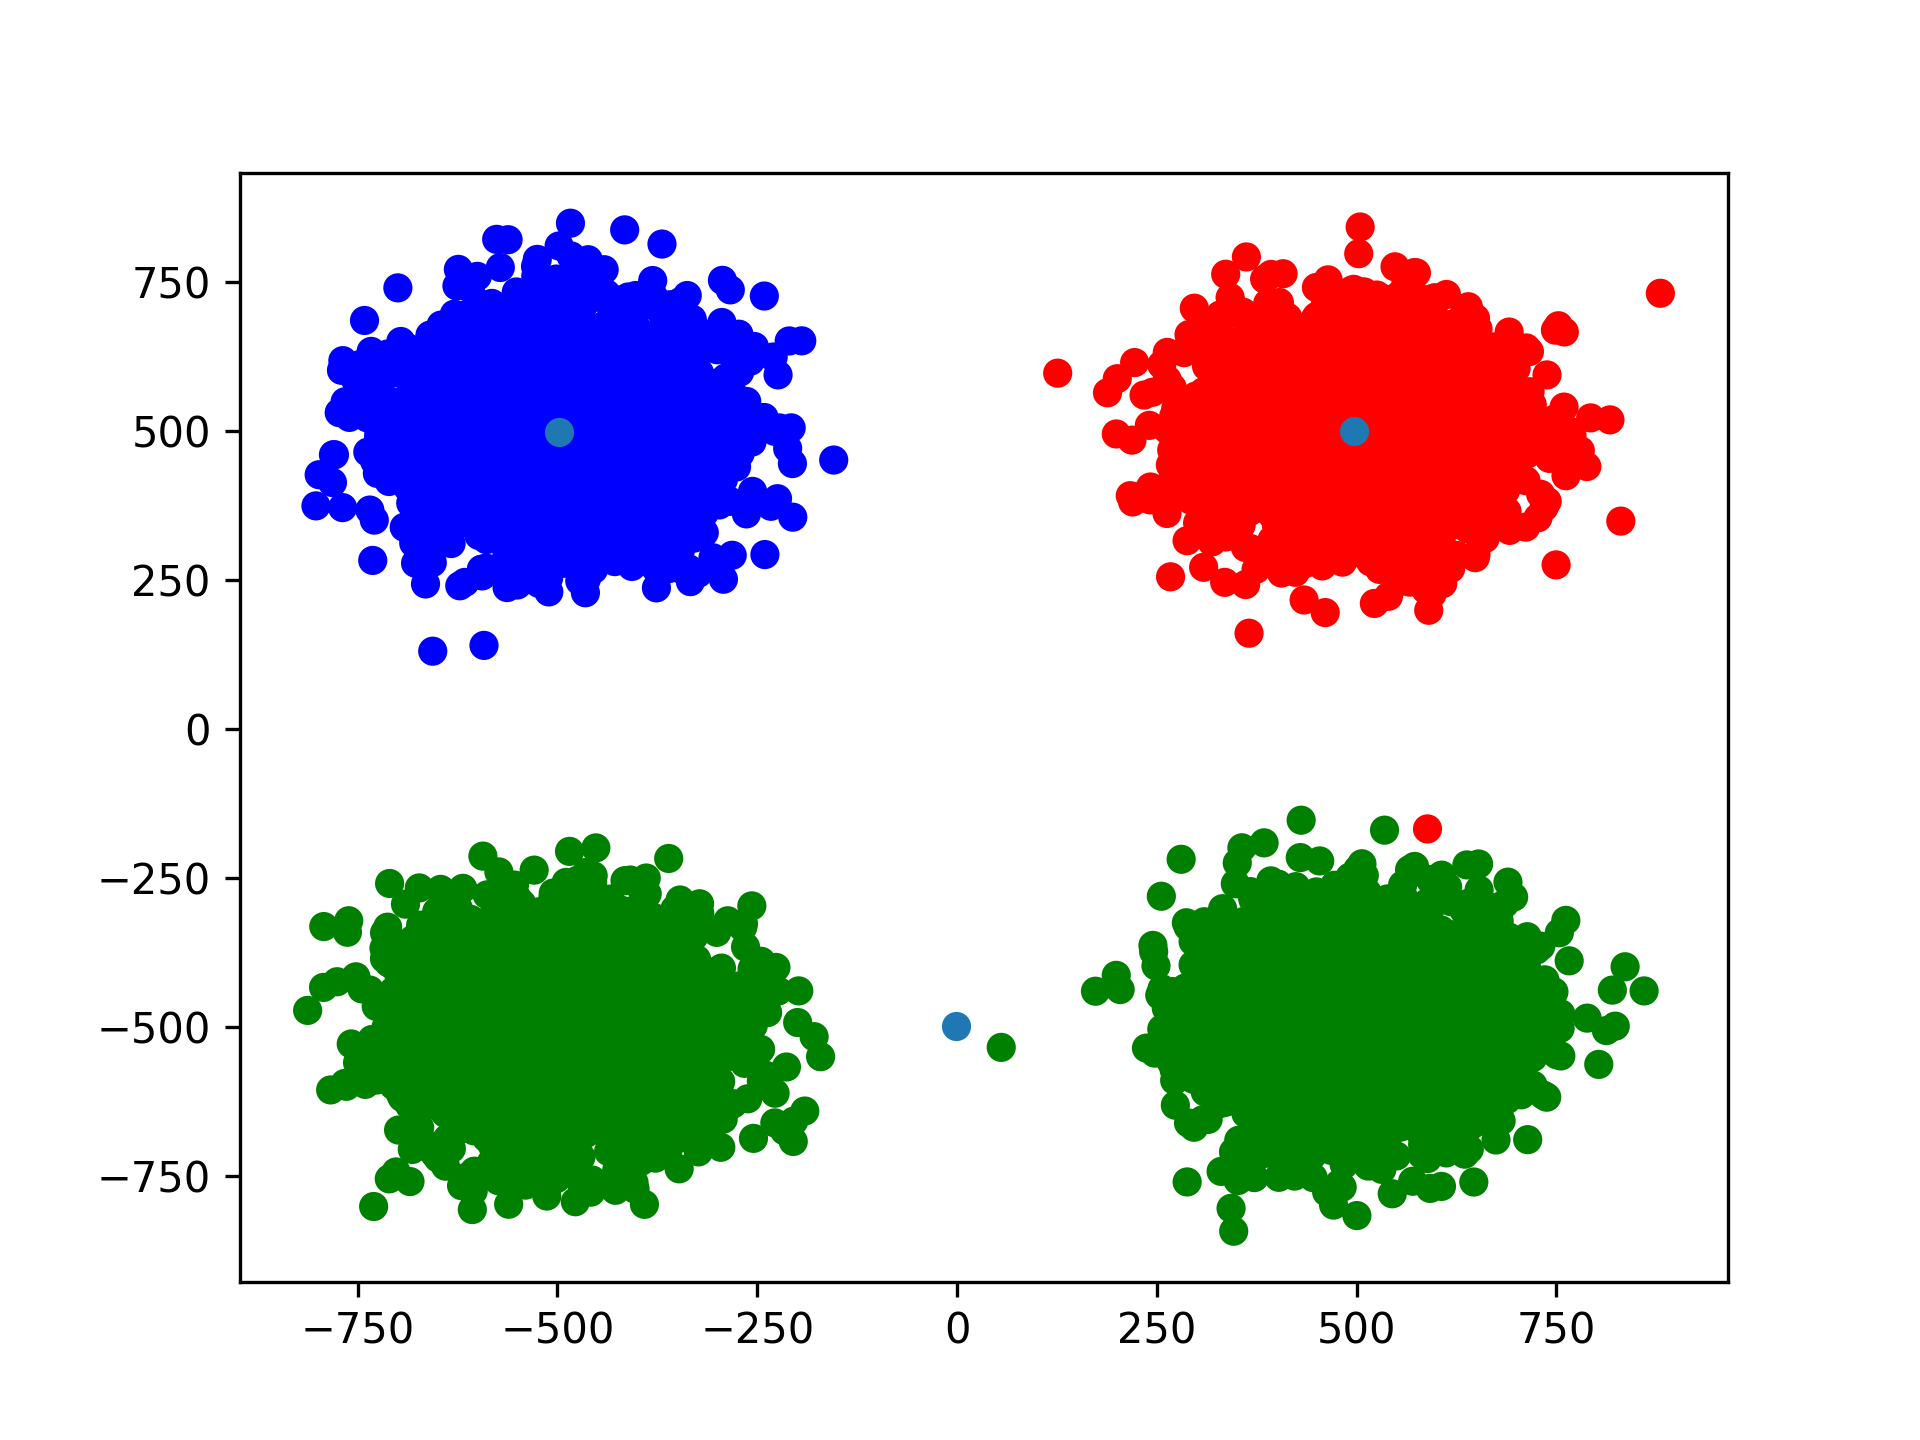
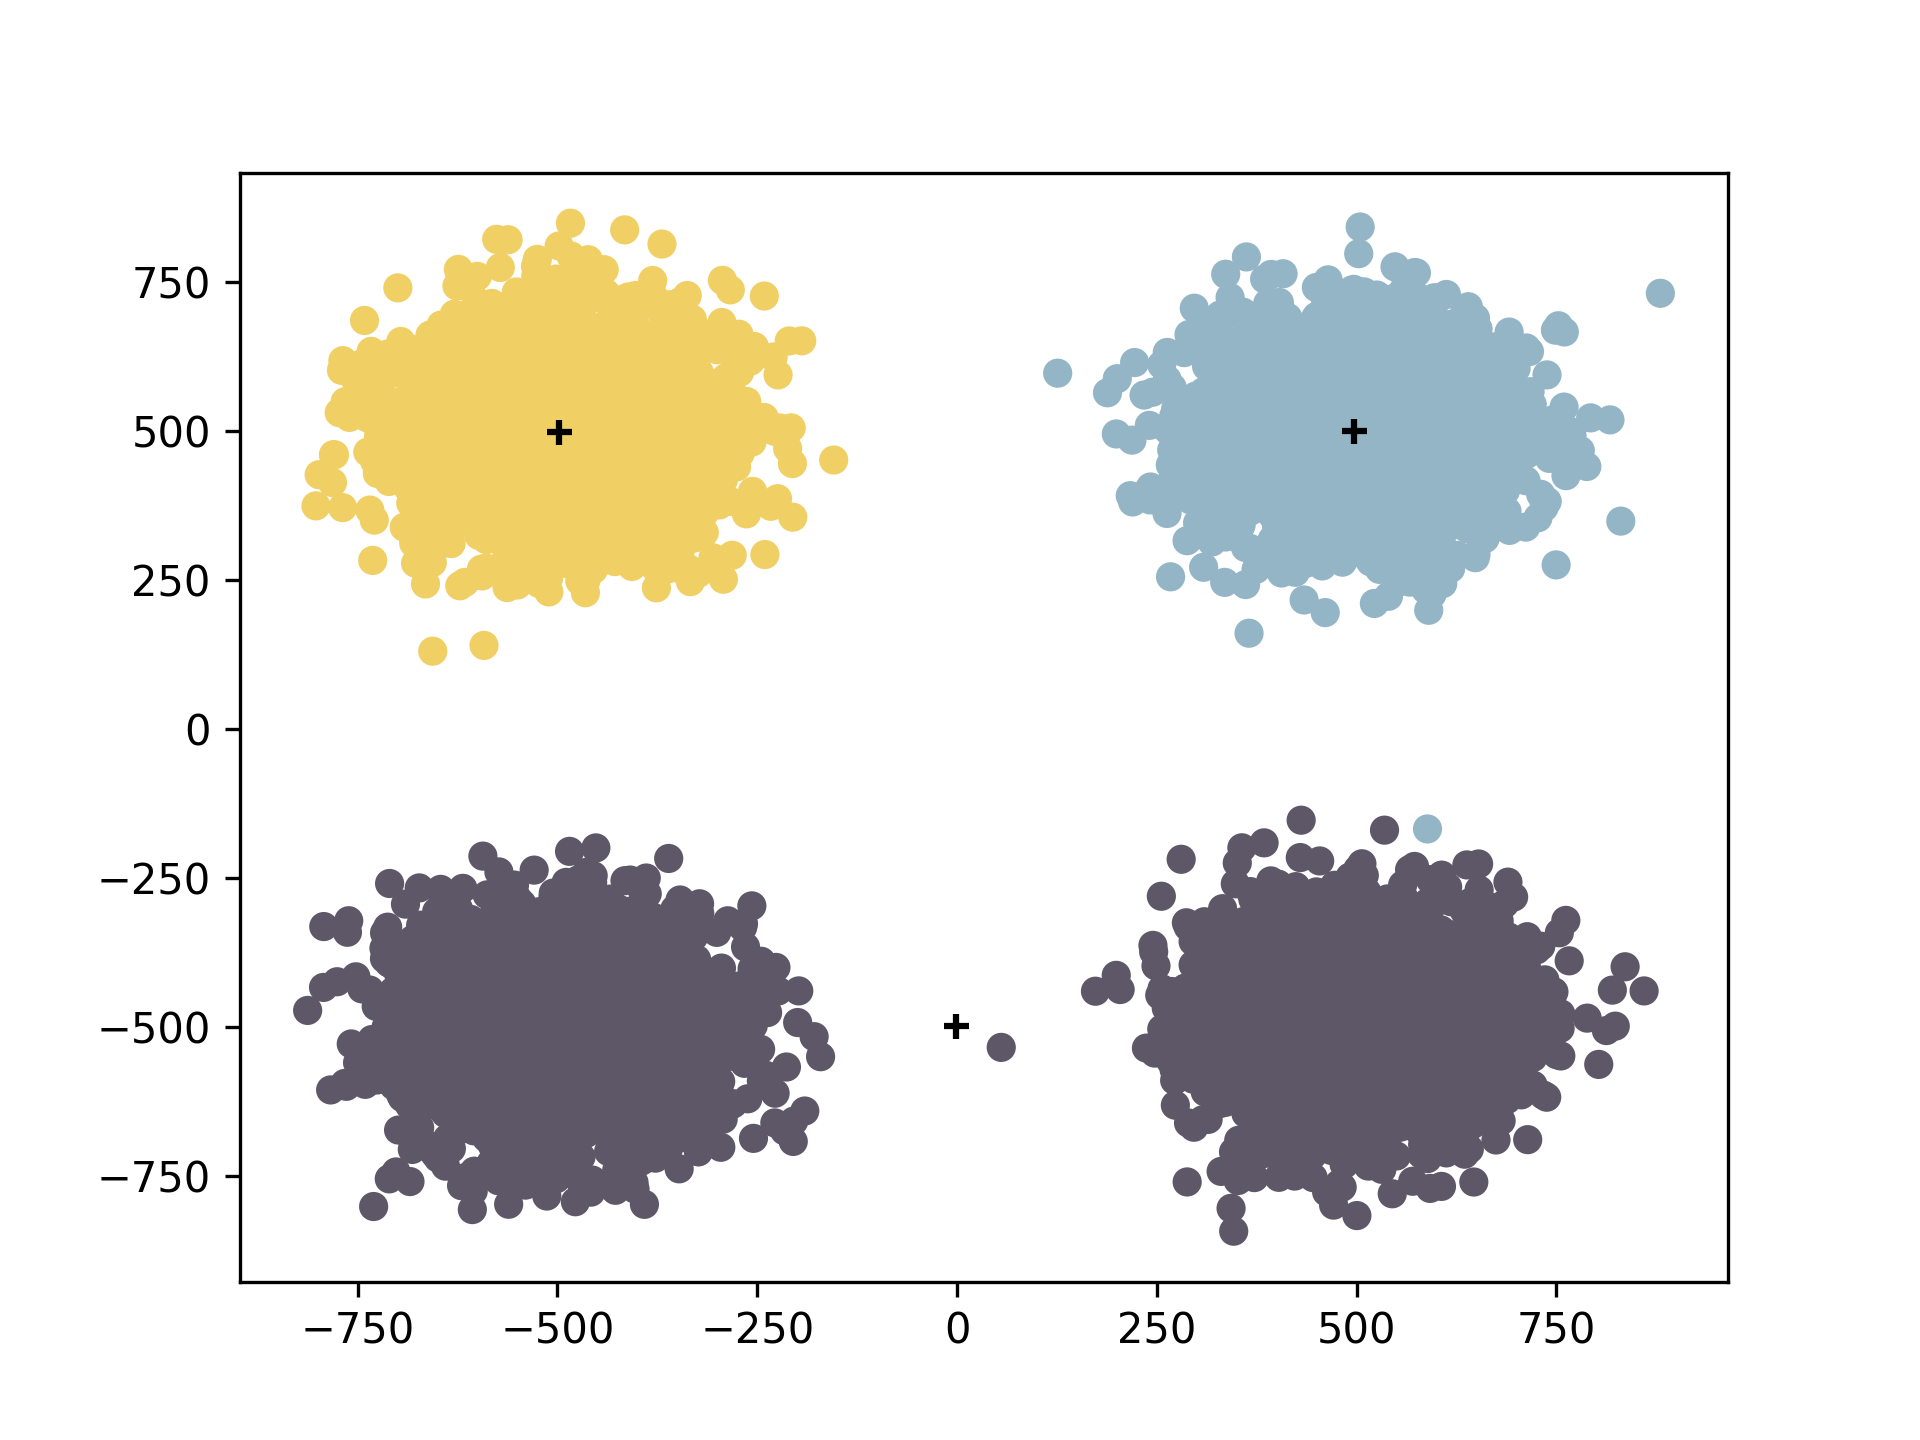
add: images

diff --git a/compare/plot.py b/compare/plot.py
@@ -25,7 +25,7 @@ def assign_labels_to_points(centroids, points):
 
 def plot_data(data, centroids, labels, outputfile):
     # Define the new color palette and symbol for centroids
-    colors = ['#FF0000', '#00FF00', '#0000FF', '#FFFF00', '#FF00FF', '#00FFFF', '#000000']
+    colors = ['#93B5C6', '#5E5768', '#F0CF65', '#DB93B0', '#DD6E42', '#588157', '#54428E']
 
     # Assign colors
     label_colors = [colors[label] for label in labels]
